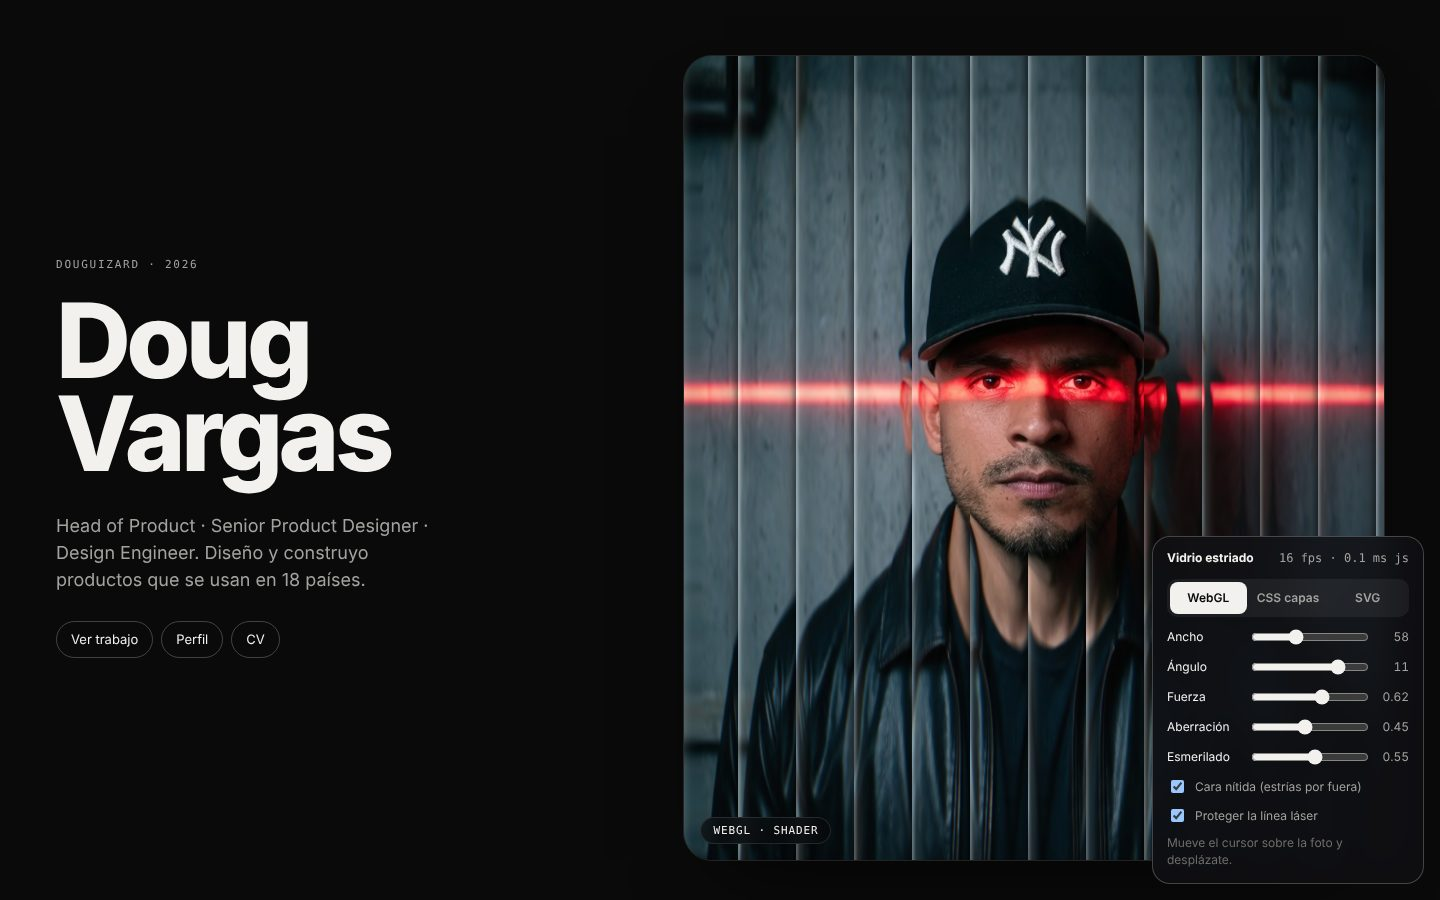
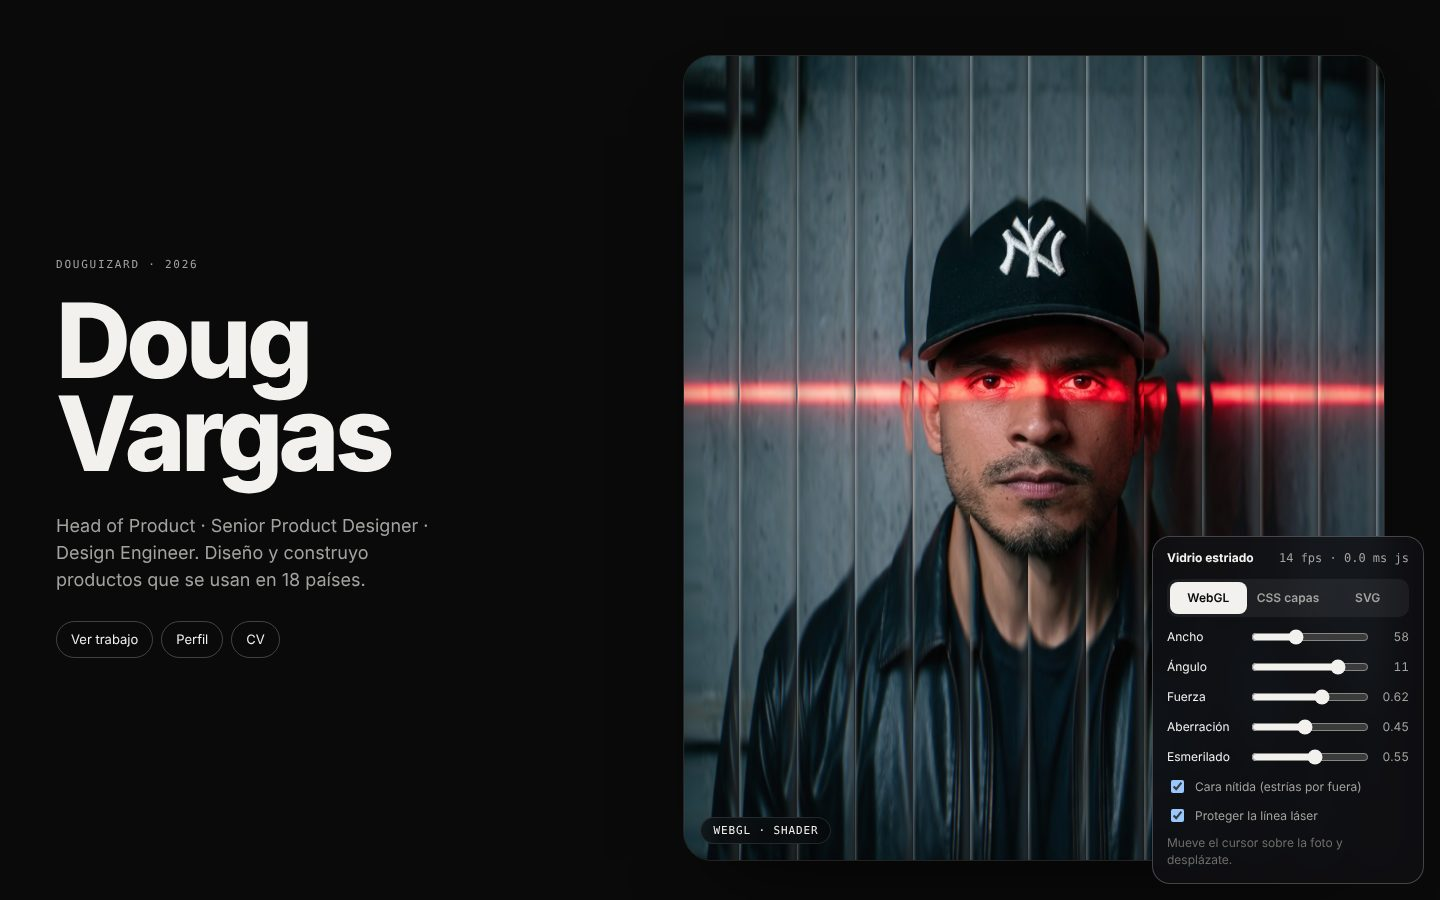
wip(rediseno): avance de prototipos y propuestas
Claude-Session: https://claude.ai/code/session_0115FVoACEbMEVHhAnRs4Nt5

diff --git a/docs/rediseno-2026/prototipos/vidrio-estriado.html b/docs/rediseno-2026/prototipos/vidrio-estriado.html
@@ -74,6 +74,11 @@
   .svgw .img { position: absolute; inset: 0; background: var(--photo) no-repeat; background-size: cover; background-position: var(--focus); filter: url(#flute); }
   .svgw .hl { position: absolute; top: 0; left: 0; height: 100%; background-repeat: no-repeat; will-change: transform; pointer-events: none; }
 
+  /* Respaldos CSS: la cara (y la banda del láser) se protegen con una copia nítida enmascarada encima. */
+  #sharp { display: none; object-fit: cover; object-position: var(--focus); pointer-events: none;
+    -webkit-mask-image: var(--mFace), var(--mLine); mask-image: var(--mFace), var(--mLine);
+    -webkit-mask-repeat: no-repeat; mask-repeat: no-repeat; }
+  [data-mode="dom"] #sharp.on, [data-mode="svg"] #sharp.on { display: block; }
   .card .tag {
     position: absolute; left: 16px; bottom: 16px; z-index: 3; padding: 7px 12px; border-radius: 999px;
     background: rgba(10, 10, 11, .55); backdrop-filter: blur(10px); -webkit-backdrop-filter: blur(10px);
@@ -142,6 +147,7 @@
       <canvas class="layer" id="gl" aria-hidden="true"></canvas>
       <div class="layer dom" id="dom" aria-hidden="true"></div>
       <div class="layer svgw" id="svgw" aria-hidden="true"><div class="img"></div><div class="hl" id="hl"></div></div>
+      <img class="layer" id="sharp" alt="" aria-hidden="true">
       <div class="tag" id="tag">WEBGL</div>
     </figure>
   </section>
@@ -171,8 +177,8 @@
     <label class="row"><span>Fuerza</span><input type="range" name="str" min="0" max="1" step="0.01" value="0.62"><output>0.62</output></label>
     <label class="row gl-only"><span>Aberración</span><input type="range" name="ca" min="0" max="1" step="0.01" value="0.45"><output>0.45</output></label>
     <label class="row gl-only"><span>Esmerilado</span><input type="range" name="frost" min="0" max="1" step="0.01" value="0.55"><output>0.55</output></label>
-    <label class="check gl-only"><input type="checkbox" name="face"> Cara nítida (estrías por fuera)</label>
-    <label class="check gl-only"><input type="checkbox" name="line"> Proteger la línea láser</label>
+    <label class="check"><input type="checkbox" name="face"> Cara nítida (estrías por fuera)</label>
+    <label class="check"><input type="checkbox" name="line"> Proteger la línea láser</label>
     <div class="note" id="note">Mueve el cursor sobre la foto y desplázate.</div>
   </form>
 </details>
@@ -195,7 +201,7 @@
   const IMG = { w: 880, h: 1168, fx: PRESET.fx, fy: PRESET.fy };
   card.style.setProperty("--photo", `url("${PRESET.src}")`);
   card.style.setProperty("--focus", `${PRESET.fx * 100}% ${PRESET.fy * 100}%`);
-  base.src = PRESET.src;
+  base.src = PRESET.src; document.querySelector("#sharp").src = PRESET.src;
 
   const P = { mode: "webgl", w: 58, ang: 11, str: 0.62, ca: 0.45, frost: 0.55, face: qs.get("cara") !== "0", line: qs.get("linea") !== "0" && PRESET.line != null };
   const S = { tx: 0, ty: 0, mx: 0, my: 0, vx: 0, vy: 0, hoverT: 0, hover: 0, phaseT: 0, phase: 0, scroll: 0, t0: performance.now(), bench: false, inside: false };
@@ -402,6 +408,18 @@
     hl.style.transform = `translateX(${-off}px)`;
   }
 
+  function sharpMask() {
+    const el = $("#sharp"), c = cover(), F = PRESET.face;
+    el.classList.toggle("on", P.face || P.line);
+    el.style.setProperty("--mFace", P.face
+      ? `radial-gradient(${F[2] * c.Dx}px ${F[3] * c.Dy}px at ${c.Ox + F[0] * c.Dx}px ${c.Oy + F[1] * c.Dy}px, #000 78%, transparent 104%)`
+      : "linear-gradient(transparent, transparent)");
+    const y = c.Oy + (PRESET.line ?? 0) * c.Dy, h = 0.012 * c.Dy;
+    el.style.setProperty("--mLine", P.line
+      ? `linear-gradient(to bottom, transparent ${y - 2.2 * h}px, #000 ${y - h}px, #000 ${y + h}px, transparent ${y + 2.2 * h}px)`
+      : "linear-gradient(transparent, transparent)");
+  }
+
   // ── bucle: solo pinta cuando algo cambia ──────────────────────────
   function stepSprings(dt) {
     // Muelles críticamente amortiguados e independientes en X e Y (respuesta ~0.35 s).
@@ -421,7 +439,7 @@
     const dt = Math.min(0.05, (now - last) / 1000); last = now;
     stepSprings(dt);
     const t0 = performance.now();
-    if (P.mode === "webgl") drawGL(now); else if (P.mode === "dom") drawDom(now); else drawSvg(now);
+    if (P.mode === "webgl") drawGL(now); else { sharpMask(); if (P.mode === "dom") drawDom(now); else drawSvg(now); }
     jsMs = jsMs * 0.9 + (performance.now() - t0) * 0.1;
     frameTimes.push(now); while (frameTimes.length && now - frameTimes[0] > 1000) frameTimes.shift();
     if (!RM && busy()) raf = requestAnimationFrame(tick);
